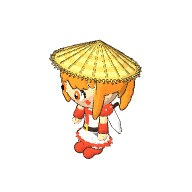
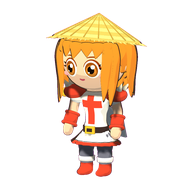
Ferme : portraits de classe et icônes du Berserker refaits
Les 6 portraits (choix de classe, combat, parties) sont rendus depuis les
nouveaux modèles ; les 3 icônes de sorts du Berserker montrent son nouveau
visage (oeil balafré fermé, bandeau).

Changed region(s): [[0.25, 0.0625, 0.7812, 0.9375]]

diff --git a/site/ferme/js/25-interface.js b/site/ferme/js/25-interface.js
@@ -129,7 +129,7 @@ const ICONES = { forge: 'atelier-forge', geliere: 'geliere', qg: 'grange', nivPu
 /* LES ICONES 3D DES SORTS ET DES PASSIFS (23/10/2026, « refais les visuels des sorts », Mathieu) : peintes a partir du rendu du perso, une par apparence,
    toutes dans le meme style, en pleine image (« faut qu'on ait tous le meme ton ») ; tant qu'une apparence n'a pas la sienne, l'ancienne image reste */
 const ICONES_3D = new Set(['iop3', 'iop-berserker-a', 'iop-berserker-b', 'iop-berserker-c', 'feminin-iop', 'cra', 'feminin-cra', 'osa', 'feminin-osa'].flatMap((m) => ['sort3d-' + m + '-attaque', 'sort3d-' + m + '-sort', 'passif-' + m]));
-const V_ICONES_3D = 'i4'; /* (a changer quand on repeint les icones 3D : le navigateur garde sinon les anciennes, sans recharger tous les modeles) */
+const V_ICONES_3D = 'i5'; /* (a changer quand on repeint les icones 3D : le navigateur garde sinon les anciennes, sans recharger tous les modeles) */
 const icone3d = (nom) => '<span class="pic img trois-d"><img src="assets/icones/' + nom + '.png?v=' + VERSION_MODELES + V_ICONES_3D + '" alt=""></span>';
 const ico = (nom) => '<span class="pic img' + (/^obj-leg-/.test(nom) ? ' leg' : '') + '"><img src="assets/icones/' + nom + '.png?v=' + VERSION_MODELES + '" alt=""></span>';
 /* « Comment jouer » dans les Options (23/10/2026, « a refaire ca », Mathieu, devant l'ancien pave de texte) : les commandes de l'appareil

diff --git a/site/ferme/js/09-modeles.js b/site/ferme/js/09-modeles.js
@@ -165,7 +165,7 @@ const draco = new T.DRACOLoader(); draco.setDecoderPath('https://cdn.jsdelivr.ne
 const chargerGlbUneFois = (url) => new Promise((ok, ko) => chargeur.load(url, (gl) => ok(gl.scene), undefined, ko));
 const chargerGlb = (url, essais = 3) => chargerGlbUneFois(url).catch((e) => (essais > 1 ? new Promise((r) => setTimeout(r, 800)).then(() => chargerGlb(url, essais - 1)) : Promise.reject(e))); /* (trois essais : un modele rate ne fait plus planter le jeu plus tard, 16/10/2026) */
 const MODELES = {};
-const VERSION_MODELES = '20261023t'; /* a changer a chaque nouvel export des modeles : sinon le navigateur garde les anciens en cache */
+const VERSION_MODELES = '20261023u'; /* a changer a chaque nouvel export des modeles : sinon le navigateur garde les anciens en cache */
 /* un modele tire d'une planche : on le recentre, on le remet droit, on l'ajuste a la taille voulue (pied au sol, centre en 0) */
 /* comme gabarit, mais a une echelle donnee et centre sur un point donne (non mis a l'echelle) : les 5 niveaux d'un batiment gardent la meme echelle,
    le niveau 1 a la taille d'avant et les suivants grandissent vraiment */

diff --git a/site/ferme/index.html b/site/ferme/index.html
@@ -94,7 +94,7 @@
 <script src="js/06-temps.js?v=45bc8f81b4"></script>
 <script src="js/07-actions.js?v=52e811e77d"></script>
 <script src="js/08-scene.js?v=af204159b6"></script>
-<script src="js/09-modeles.js?v=22ee312f29"></script>
+<script src="js/09-modeles.js?v=7e07b5e850"></script>
 <script src="js/10-ciel.js?v=72eb99f225"></script>
 <script src="js/11-ferme-3d.js?v=df6c94b1ef"></script>
 <script src="js/12-perso.js?v=601a659719"></script>
@@ -116,7 +116,7 @@
 <script src="js/22b-effets.js?v=42f3efbf22"></script>
 <script src="js/23-fin-combat.js?v=318d77354b"></script>
 <script src="js/24-deplacement.js?v=98cab268c3"></script>
-<script src="js/25-interface.js?v=9e4238cf8d"></script>
+<script src="js/25-interface.js?v=fa5ffeb23a"></script>
 <script src="js/26-casino.js?v=c052721067"></script>
 <script src="js/27-arene.js?v=3aa581d3c1"></script>
 <script src="js/28-voyage.js?v=9721219ffc"></script>
